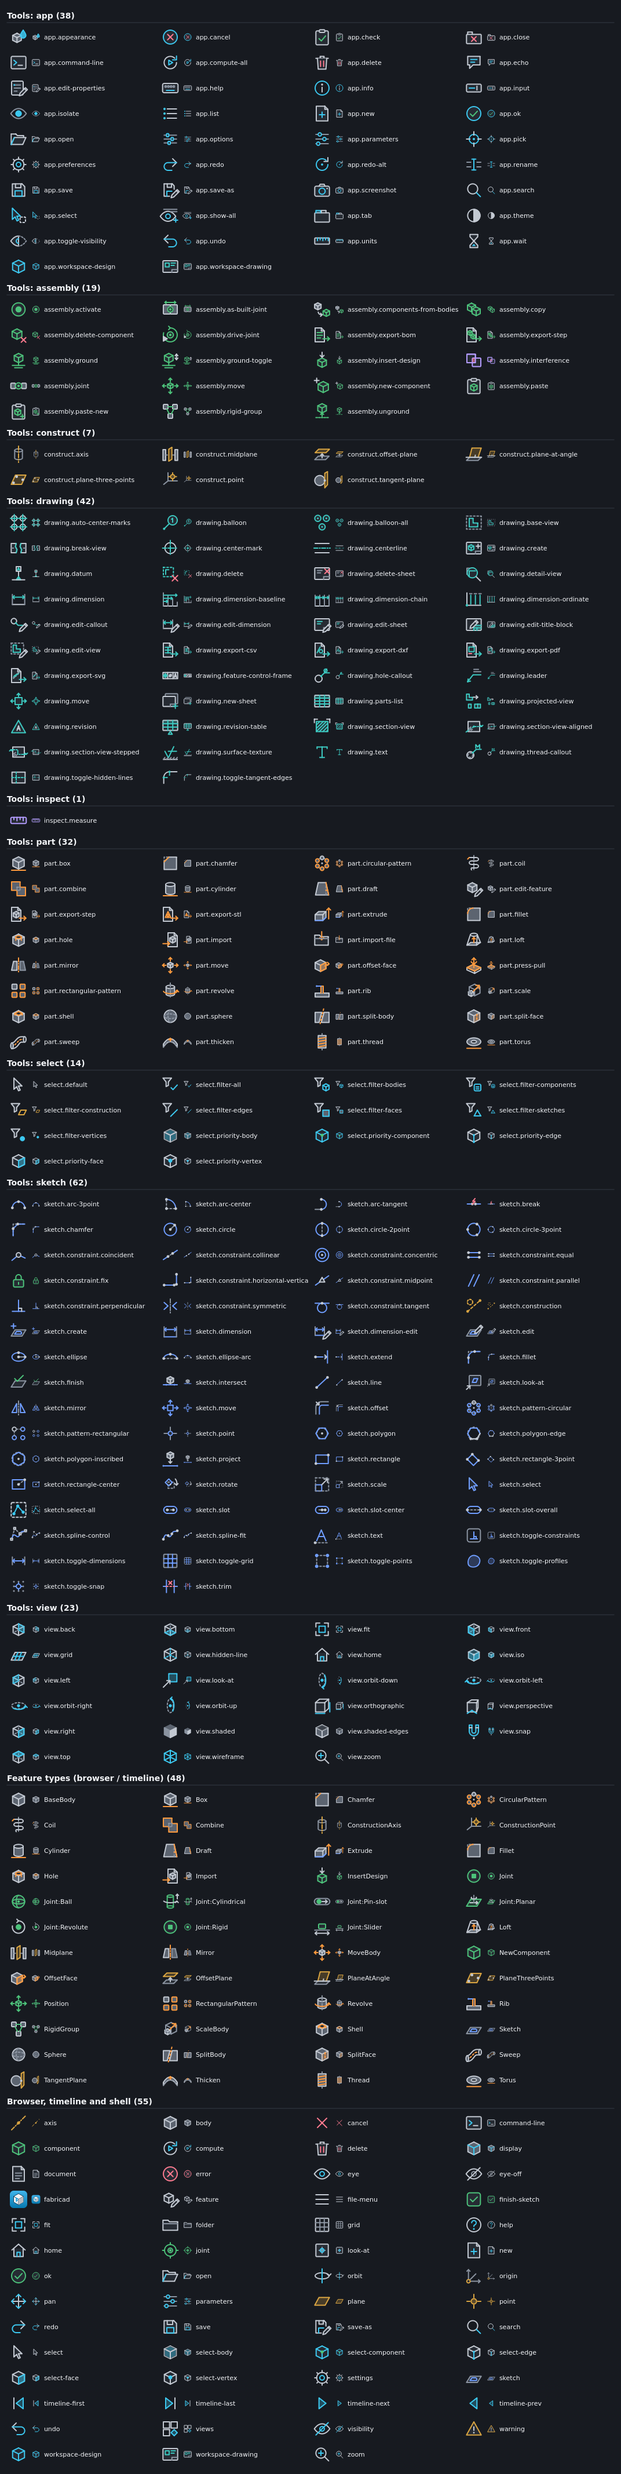
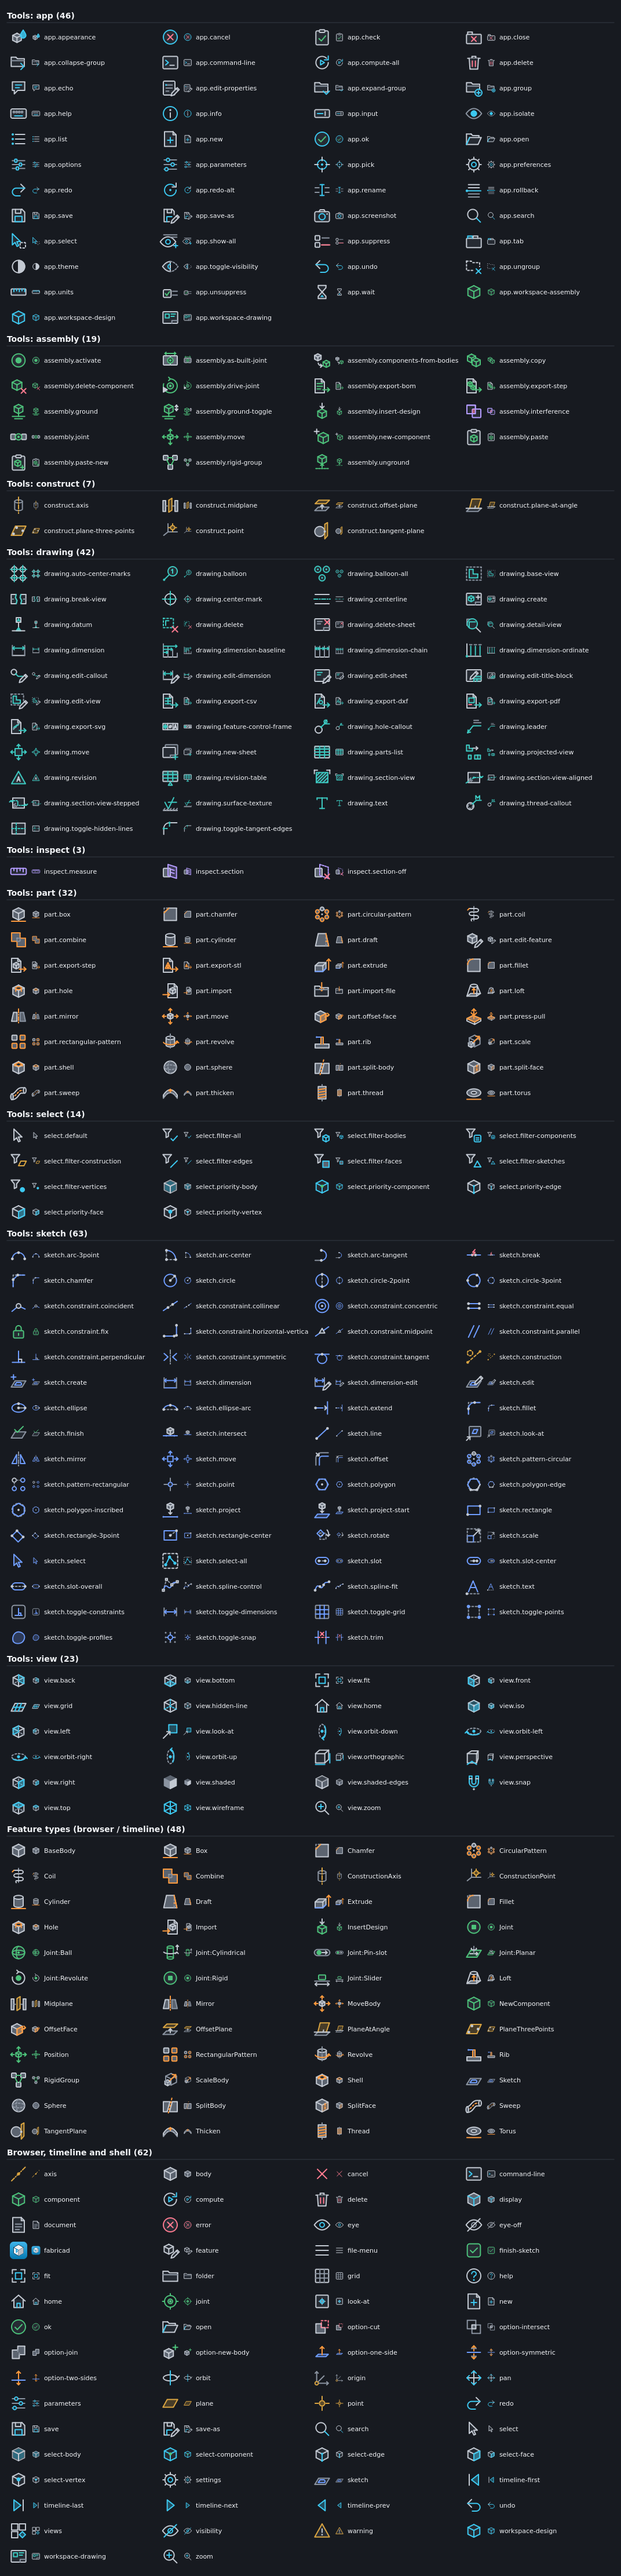
ui2/card: approved Extrude card body for every feature card
- MERGE WITH: the multi-body targets selection input as a chip (Auto while empty)
- PREVIEW switch (32x16, tokens): off removes the live preview shapes, results still computed
- DIRECTION shown One side, Symmetric, Two sides (display order only; stored enum unchanged)
- option-* icons (themed icon set) on DIRECTION and OPERATION segments, 52 px cells (plan 5.4)
- START OFFSET under a collapsed More options row (PropertyFlags::advanced; opens while set)
- Shared by Revolve/Sweep/Loft/primitives via PropertyPanel; tests, plan 5.4, mockup region notes

Claude-Session: https://claude.ai/code/session_01NMwPm4rZ48j1JNJPg5w1cs

diff --git a/src/app/tests/test_command_card.cpp b/src/app/tests/test_command_card.cpp
@@ -304,8 +304,13 @@ class TestCommandCard : public QObject {
     QVERIFY(card()->isDocked());
     auto* scroll = card()->findChild<QScrollArea*>("CommandDialogScroll");
     QVERIFY(scroll && scroll->widget());
-    QVERIFY2(scroll->viewport()->height() >= scroll->widget()->height(),
-             qPrintable(QString("%1 < %2").arg(scroll->viewport()->height()).arg(scroll->widget()->height())));
+    // the approved body (2026-10-23) ends with PREVIEW and the collapsed More options row, which may
+    // scroll in the docked slot; the rows up to OPERATION and MERGE WITH must not
+    auto* merge = scroll->widget()->findChild<QWidget*>("prop_targets");
+    QVERIFY(merge && merge->isVisible());
+    const int mergeBottom = merge->mapTo(scroll->widget(), QPoint(0, merge->height())).y();
+    QVERIFY2(scroll->viewport()->height() >= mergeBottom,
+             qPrintable(QString("%1 < %2").arg(scroll->viewport()->height()).arg(mergeBottom)));
     auto* list = w_->findChild<app::FeatureListWidget*>();
     QVERIFY(list && list->isVisible() && list->height() >= 2 * app::FeatureListWidget::kRowH);
     w_->toolManager().cancel();
